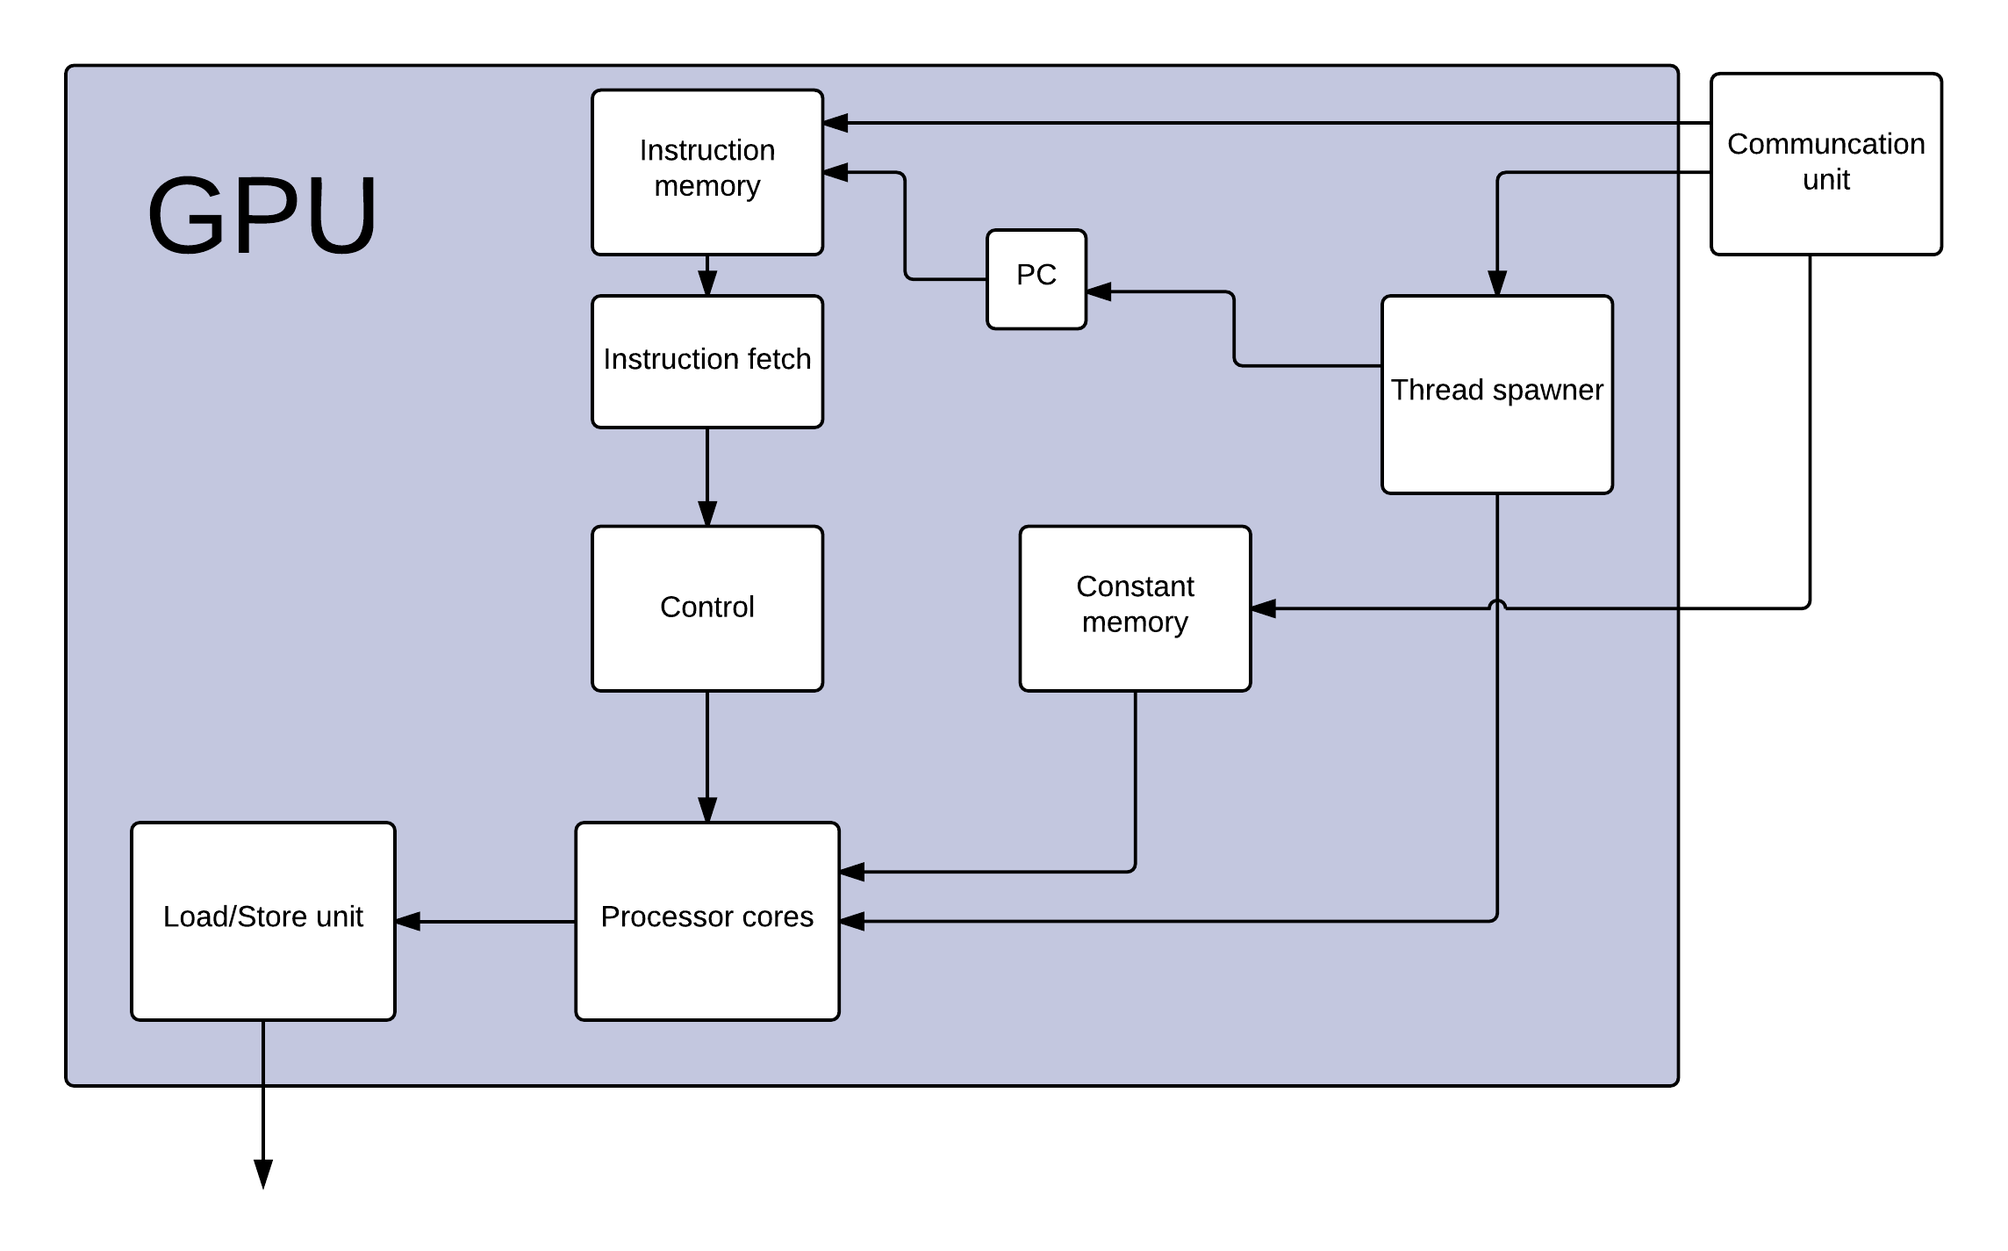
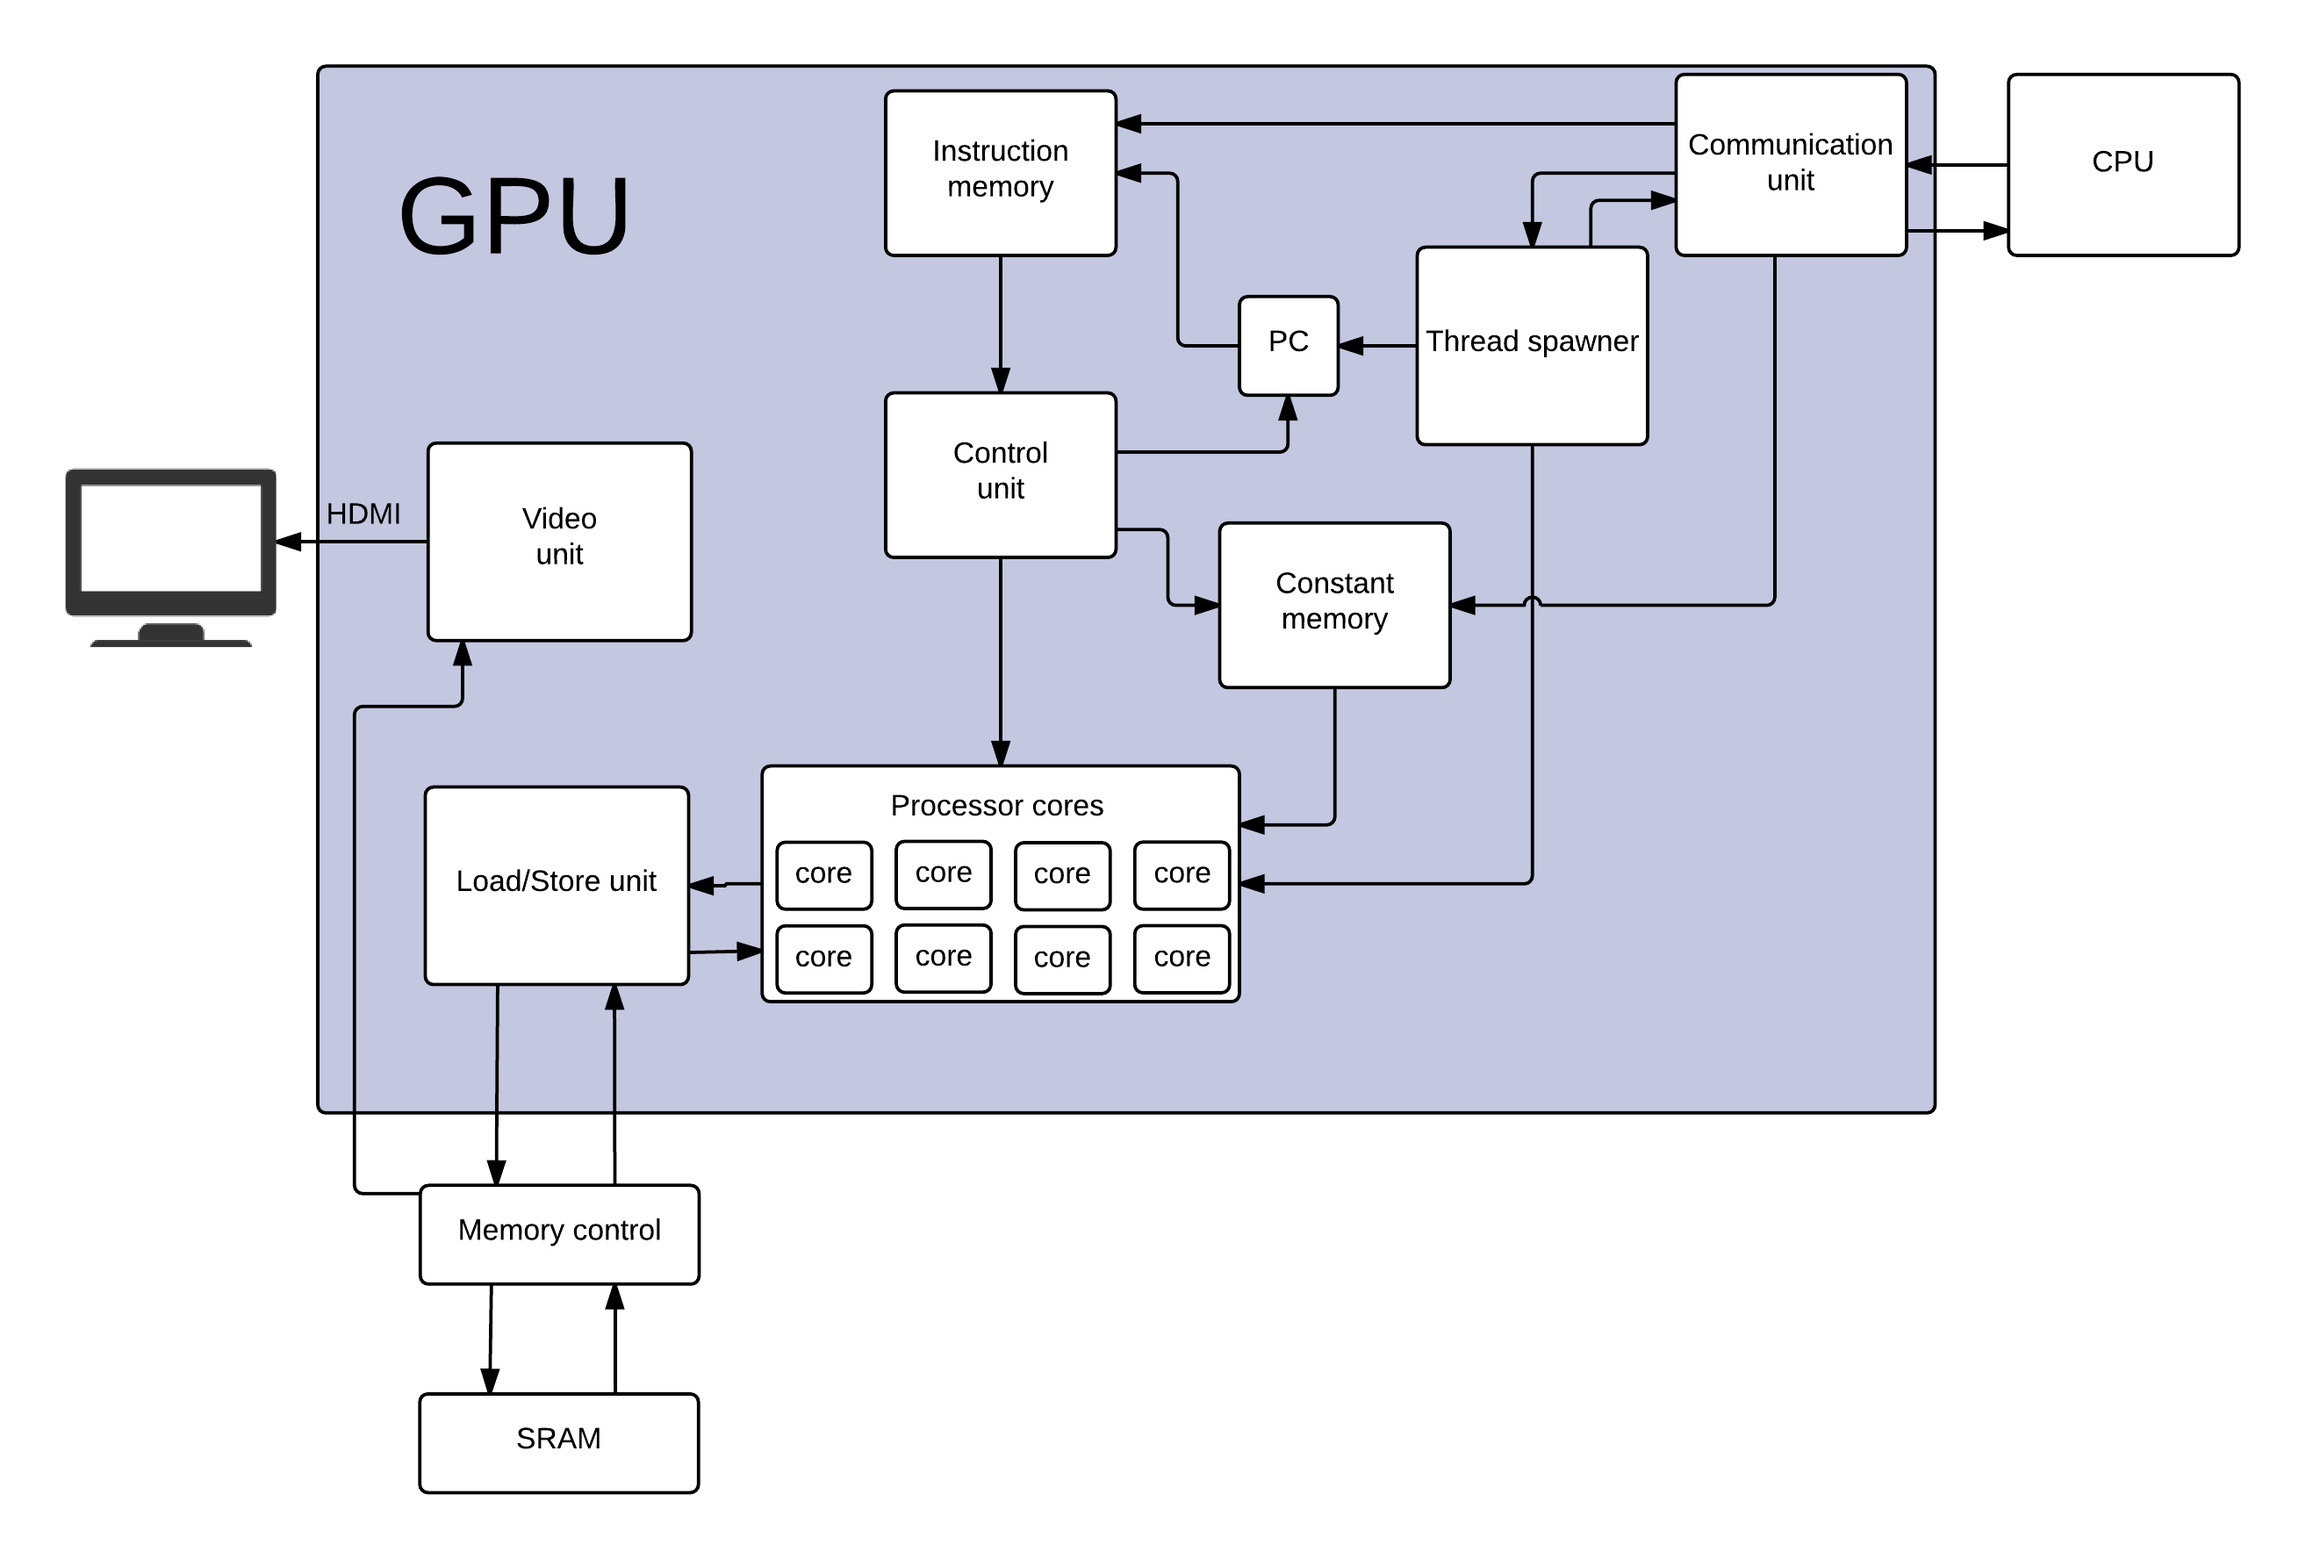
architecture overview

diff --git a/report/gpu/gpu.tex b/report/gpu/gpu.tex
@@ -16,7 +16,7 @@ This design decision allows for a steady stream of load/store instructions witho
 
 \section{Responsibilities}
 
-The GPU has a relatively simple job:
+The GPU has these responsibilities
 \begin{enumerate}
   \item
     Receive instructions and constants from the CPU
@@ -35,8 +35,8 @@ The GPU has a relatively simple job:
 \caption{A high level overview of the GPU.}
 \label{fig:architecture_overview}
 \end{figure}
-Figure \ref{fig:architecture_overview} presents a high level overview over the data-flow in the GPU.
-The CPU issues commands to the GPU via the communication unit. Commands include actions such as launching a kernel, uploading kernels to the instruction memory, and writing to the constant memory.
+Figure \ref{fig:architecture_overview} presents a high level overview over the GPU.
+The CPU issues commands to the command unit in the GPU. Commands are launching a kernel, uploading kernels to the instruction memory, writing to the constant memory, and read/write to SRAM.
 Instructions are fetched from the instruction memory and decoded by the control unit, which has the responsibility of setting the control signals for the instructions.
 The processors load constants from the constant memory, and uses the load/store unit for accessing the data memory.
 
